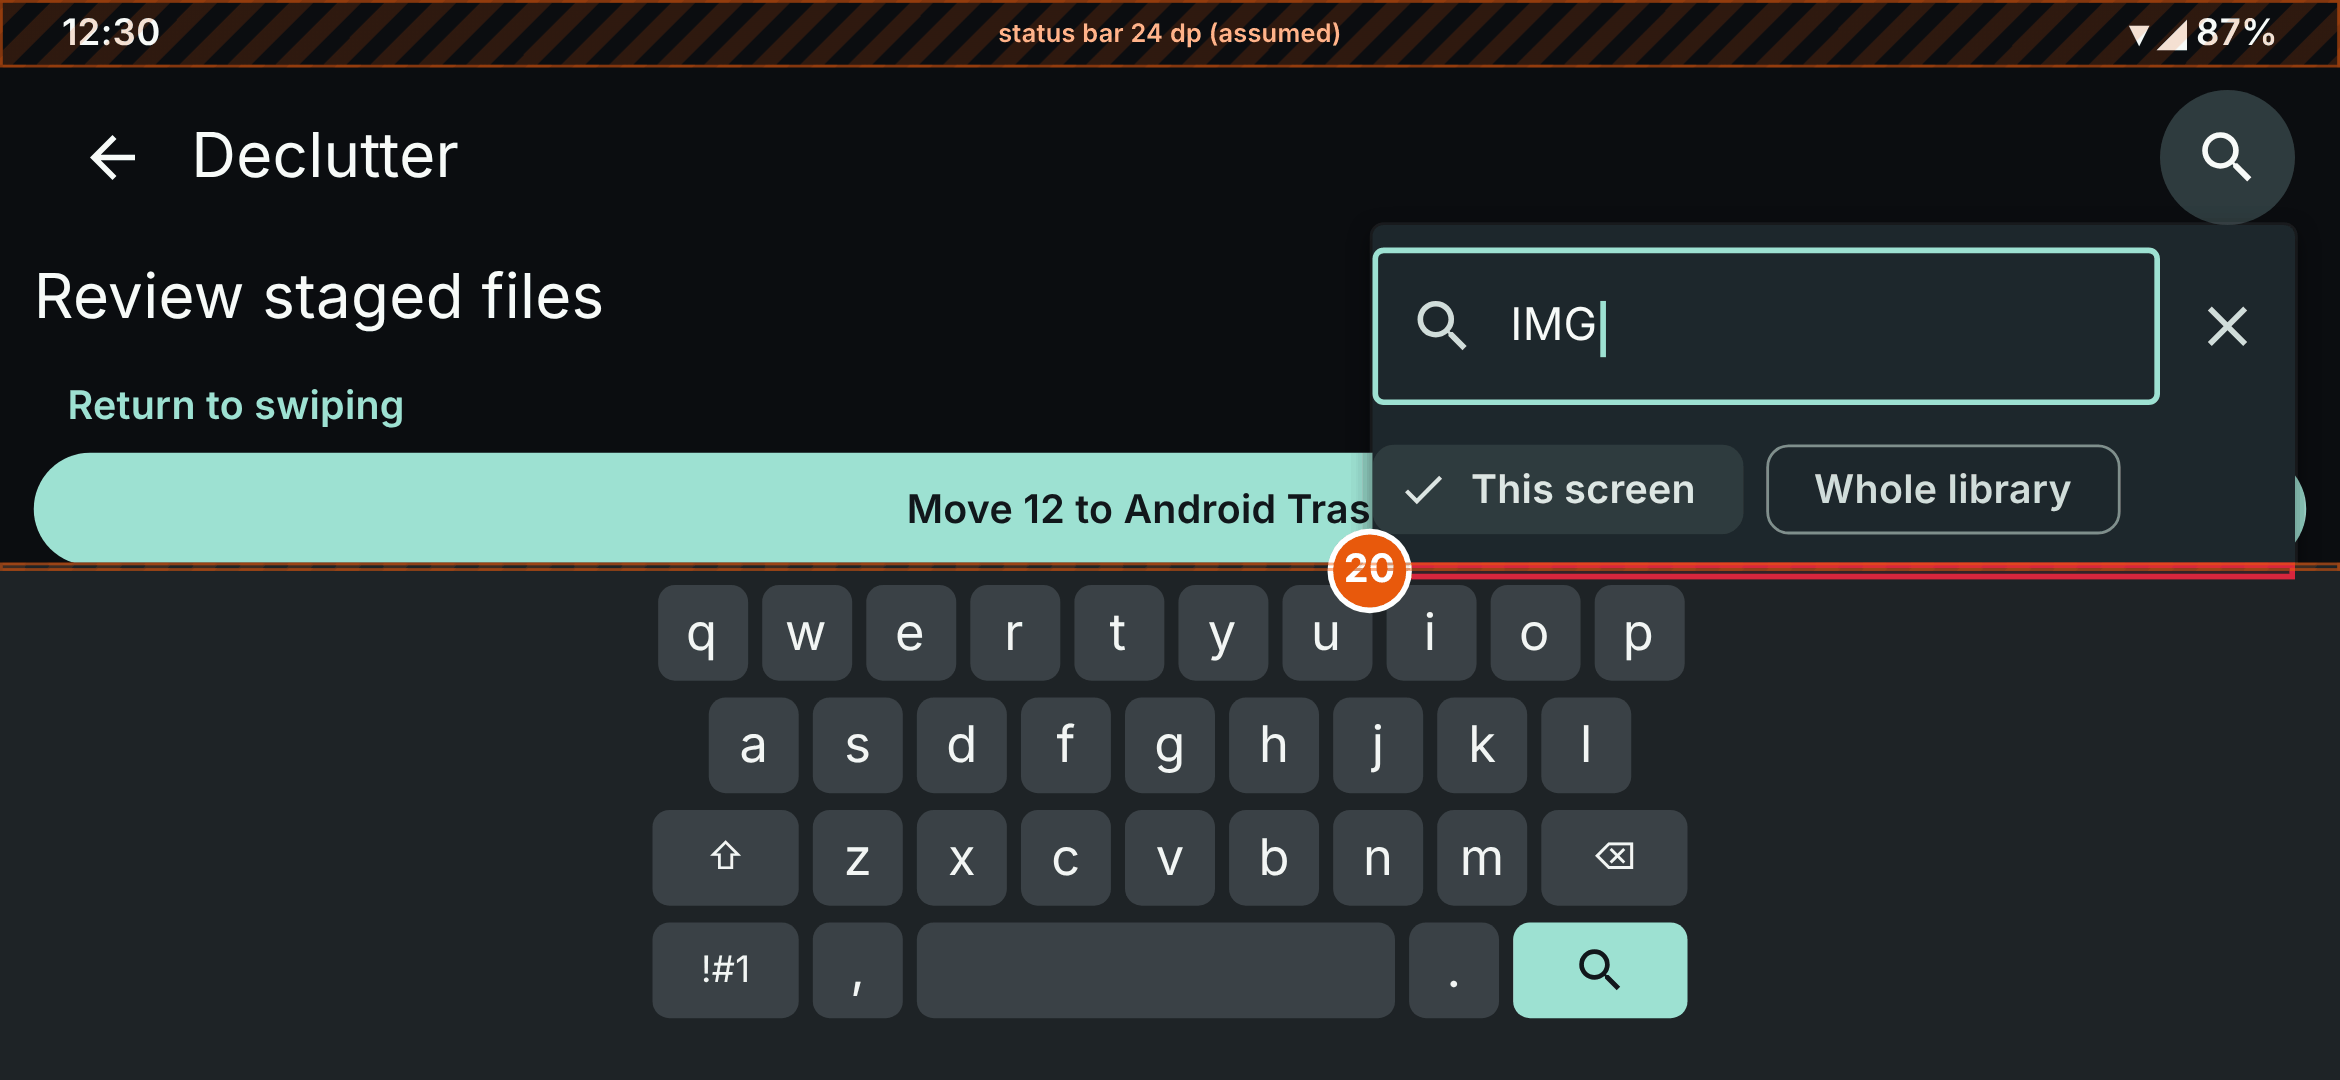
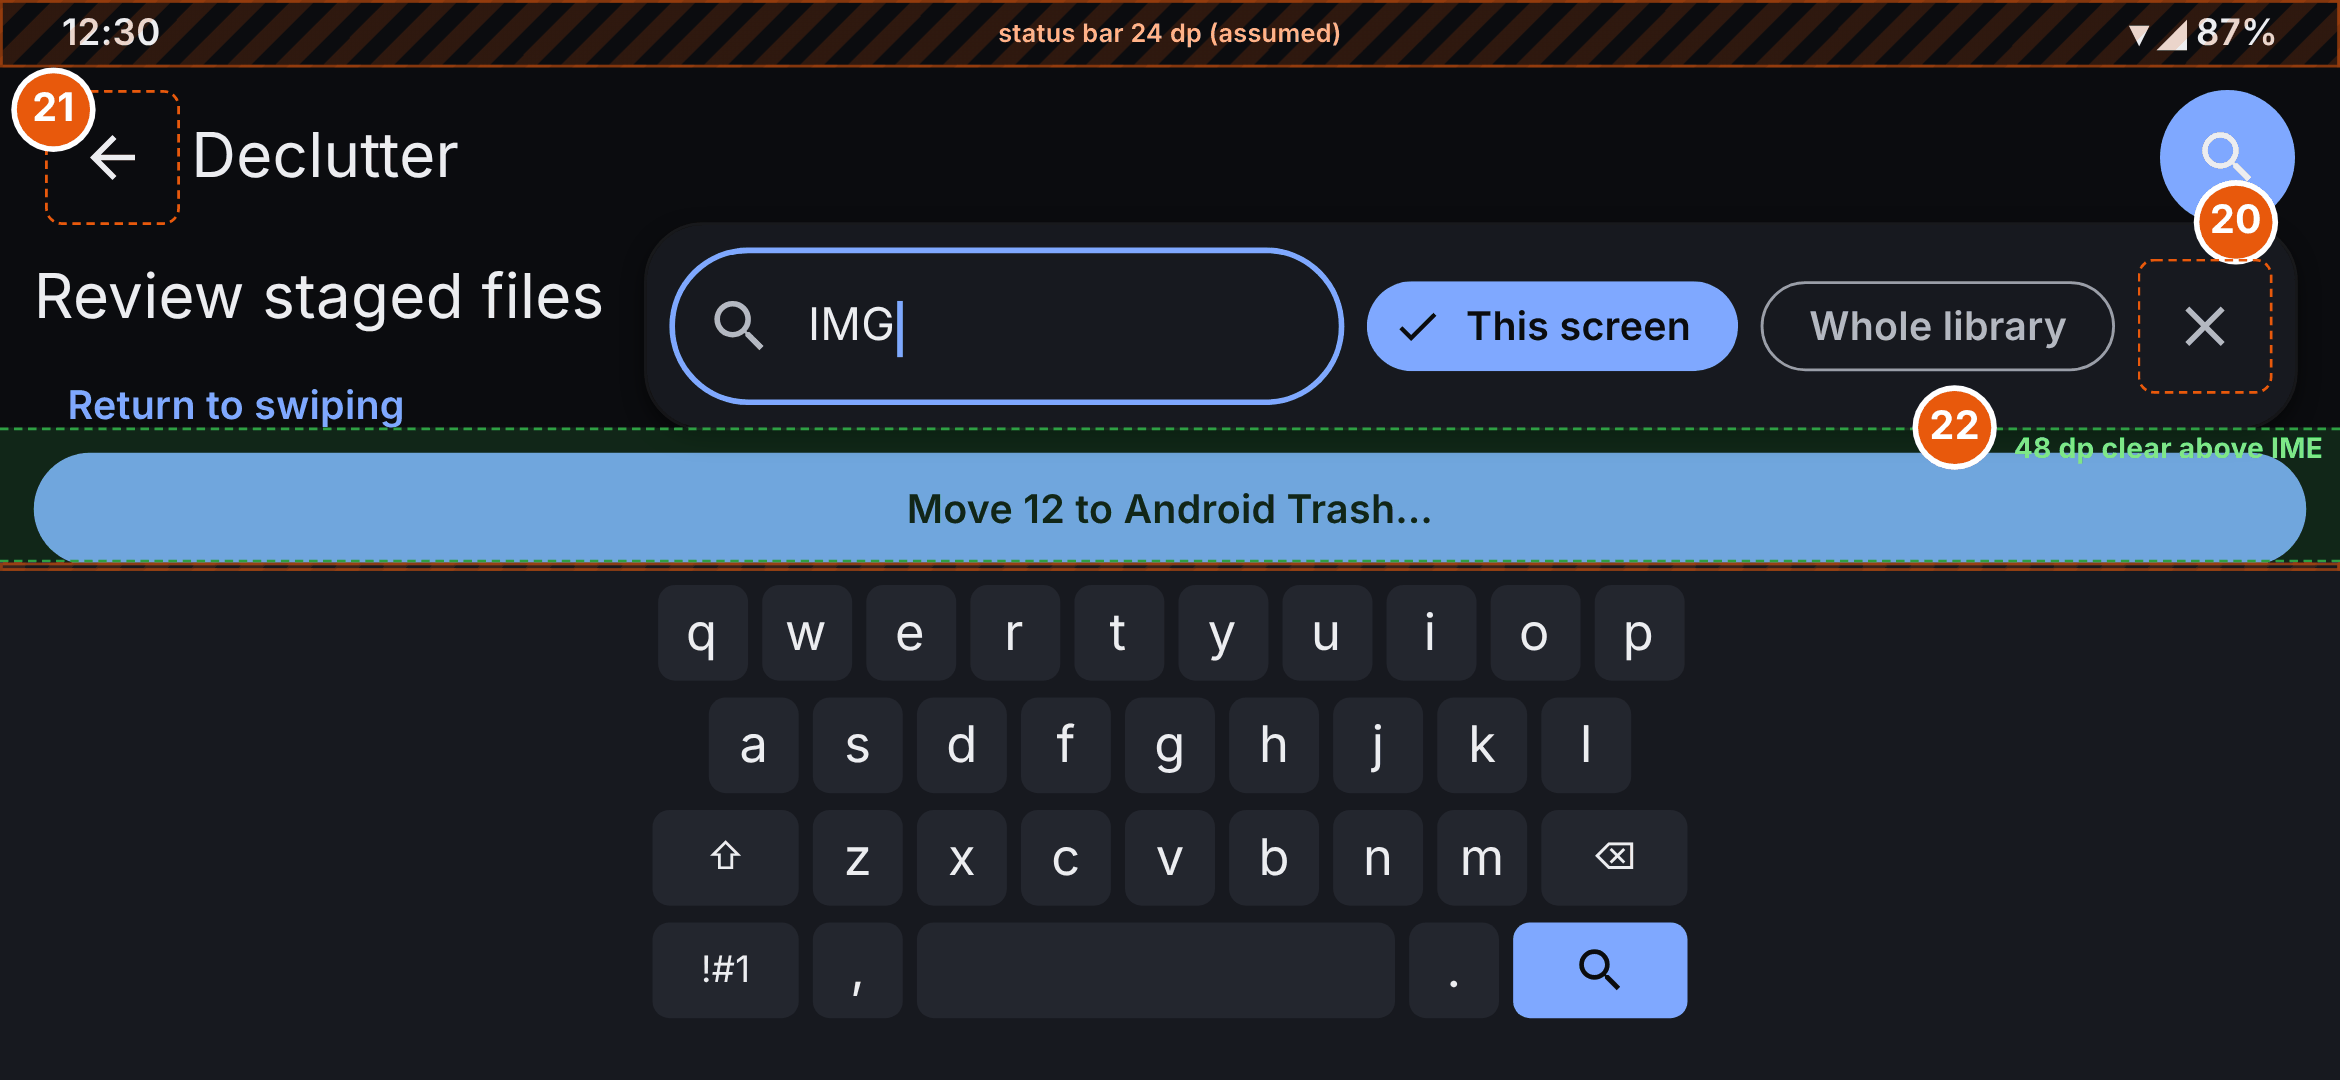
docs(design): #341 frame L inset-aware landscape search panel (Quiet Frame tokens)
Preflight 6988128847 found the scope chips under the landscape IME. Frame L
now shows a single-row panel (field, both chips, close) 48 dp clear of the
keyboard; README callout 20 records focus, Back and IME behaviour.

Refs #341

Claude-Session: https://claude.ai/code/session_01JsoPf5va4hru71Kjn9EeSL

diff --git a/docs/design/declutter-search-341/render/frames.html b/docs/design/declutter-search-341/render/frames.html
@@ -86,6 +86,12 @@ body.dark .menu{box-shadow:0 3px 8px rgba(0,0,0,.6);outline:1px solid #ffffff10}
 .badge{width:26px;height:26px;border-radius:13px;background:#E8590C;color:#fff;font:700 14px/26px Inter,sans-serif;text-align:center;box-shadow:0 0 0 2px #fff}
 .tgt{border:1.5px dashed #E8590C;border-radius:6px}
 .inset{background:repeating-linear-gradient(135deg,rgba(232,89,12,.16) 0 6px,transparent 6px 12px);border:1px solid rgba(232,89,12,.55);color:#B3440A;font:600 9px/1 Inter,sans-serif;display:flex;align-items:center;justify-content:center}
+body.qf{--page:#F6F7F9;--bg:#F6F7F9;--on-bg:#111318;--surface:#FFFFFF;--on-surface:#111318;--low:#FFFFFF;--cont:#FFFFFF;--high:#FFFFFF;--variant:#4A4F59;--primary:#2F6BE0;--on-primary:#FFFFFF;--outline:#5F6470;--outline-var:#ECEEF2;--sec-cont:#2F6BE0;--on-sec-cont:#FFFFFF;--kbd:#ECEEF2;--key:#FFFFFF;--key-ink:#111318;--track:#ECEEF2;font-family:'Inter Tight',Inter,sans-serif}
+body.qf.dark{--page:#0B0C0F;--bg:#0B0C0F;--on-bg:#ECEDF0;--surface:#17191F;--on-surface:#ECEDF0;--low:#17191F;--cont:#17191F;--high:#23262E;--variant:#B4B8C1;--primary:#7FA8FF;--on-primary:#0B0C0F;--outline:#9A9EA8;--outline-var:#23262E;--sec-cont:#7FA8FF;--on-sec-cont:#0B0C0F;--kbd:#17191F;--key:#23262E;--key-ink:#ECEDF0;--track:#23262E}
+body.qf .chip{border-radius:999px}body.qf .item{border-radius:20px;padding:8px}body.qf .thumb{border-radius:4px}body.qf .menu{border-radius:20px}body.qf .field{border-radius:999px}
+.menu.inline .mc{flex-direction:row;align-items:center;gap:8px;padding:0 8px}.menu.inline .field{width:240px}
+.clear{background:rgba(46,160,67,.18);border-top:1.5px dashed #2EA043;border-bottom:1.5px dashed #2EA043;color:#1A7F37;font:700 10px/1 Inter,sans-serif;display:flex;align-items:flex-start;justify-content:flex-end;padding:2px 6px 0 0}
+body.dark .clear{color:#7EE787}
 body.land .kbd .k{height:34px}body.land .kbd{gap:6px}
 body.dark .inset{color:#FFB38A}
 .tag{position:absolute;z-index:101;left:8px;bottom:calc(var(--nb) + 6px);font:700 11px/1.3 Inter,sans-serif;background:#E8590C;color:#fff;border-radius:6px;padding:4px 7px;max-width:250px}
@@ -110,6 +116,7 @@ const FILES=[["IMG_20240612_093114.jpg","8.4 MB"],["VID_20240614_181502.mp4","21
 const P=new URLSearchParams(location.search);
 const F=P.get('f'), ANN=P.get('ann')!=='0', LAND=P.get('land')==='1';
 if(LAND)document.body.classList.add('land');
+if(P.get('qf')==='1')document.body.classList.add('qf');
 if(P.get('theme')==='dark') document.body.classList.add('dark');
 const W=LAND?832:384, H=LAND?384:832, ST=LAND?24:29, NB=LAND?0:16, IME=LAND?184:324;
 document.body.style.setProperty('--st',ST+'px');document.body.style.setProperty('--nb',NB+'px');
@@ -125,6 +132,7 @@ function swipe(staged){return `${header()}<div class="meta">IMG_20240612_093114.
 function review(list,q,o={}){const n=o.count??list.length;return `${header({active:o.active})}${o.verifying?'<div class="prog"><i></i></div>':''}<h2>Review staged files</h2><div class="list">${o.listHtml??rows(list,q,o.verifying)}</div><div class="tbtn" style="align-self:flex-start">Return to swiping</div><div class="btn filled ${o.disabled?'dis':''}" style="flex:none">Move ${n} to Android Trash…</div>${o.after??''}`}
 function menu(o){const top=ST+4+4+48, w=328, left=12+(W-24)-4-w; const chips=`<div class="chips"><div class="chip ${o.lib?'':'on'}">${o.lib?'':I.check}This screen</div><div class="chip ${o.lib?'on':''}">${o.lib?I.check:''}Whole library</div></div>`;
   const field=`<div style="display:flex;align-items:center"><div class="field ${o.focus?'focus':''}">${I.search}${o.q?`<span class="val">${o.q}${o.focus?'<span class="caret"></span>':''}</span>`:(o.focus?'<span class="caret" style="margin-left:-6px"></span><span style="margin-left:-6px">Search</span>':'Search')}</div><div class="ib" style="color:var(--variant)">${I.close}</div></div>`;
+  if(o.inline){const fld=field.replace('<div style="display:flex;align-items:center">','').replace(/<div class="ib" style="color:var\(--variant\)">.*<\/div><\/div>$/,'');const cls=`<div class="ib" style="color:var(--variant)">${I.close}</div>`;return {top,right:16,html:`<div class="menu inline" style="top:${top}px;right:16px"><div class="mc">${fld}${chips.replace('class="chips"','class="chips" style="height:48px"')}${cls}</div></div>`}}
   return {top,left,w,html:`<div class="menu" style="top:${top}px;left:${left}px;width:${w}px"><div class="mc">${field}${chips}${o.extra??''}</div></div>`}}
 function kbd(){const r=s=>`<div class="kr">${[...s].map(c=>`<div class="k">${c}</div>`).join('')}</div>`;return `<div class="kbd" style="height:${IME+NB}px">${LAND?'':'<div class="sug"><span>img</span><span>image</span><span>vid</span></div>'}${r('qwertyuiop')}${r('asdfghjkl')}<div class="kr"><div class="k w">⇧</div>${[...'zxcvbnm'].map(c=>`<div class="k">${c}</div>`).join('')}<div class="k w">⌫</div></div><div class="kr"><div class="k w">!#1</div><div class="k">,</div><div class="k sp"></div><div class="k">.</div><div class="k go">${I.search.replace('<svg','<svg style="width:20px;height:20px;fill:currentColor"')}</div></div></div>`}
 function colStyle(imeOpen){const b=imeOpen?IME+NB:NB;return `top:${ST+4}px;bottom:${b+4}px`}
@@ -145,12 +153,12 @@ case 'S2-no-match': { const q='beach'; body=review([], q, {active:true,count:12,
 case 'S3-verifying': { body=review(FILES.slice(0,7),'',{verifying:true,disabled:true}); badge(17,W-40,ST+4+56+8-6); tagText='S3 · Verifying before Android Trash: search cannot enable actions'; insets(false); break;}
 case 'S4-error': { body=review(FILES.slice(0,7),''); extra=`<div class="toast" style="bottom:${NB+120}px">Couldn't verify selected files. Nothing was trashed.</div>`; badge(18,22,H-NB-170); tagText='S4 · Existing host error (Toast from MainActivity); retry = press Move again'; insets(false); break;}
 case 'S5-long': { const many=[]; for(let i=0;i<14;i++) many.push([FILES[i%12][0].replace('.', `_${String(i).padStart(3,'0')}.`),FILES[i%12][1]]); body=review(many,'',{count:214,disabled:true,after:`<div class="meta" style="flex:none">Review at most 200 files per Trash request. Unstage others or split into another session.</div>`}); badge(19,W-40,H-NB-120); tagText='S5 · 214 staged: lazy list, max-200 guard unchanged by filter'; insets(false); break;}
-case 'L-landscape-keyboard': { const q='IMG'; body=review(qMatch(q),q,{active:true,count:12}); const m=menu({q,focus:true}); extra=m.html+kbd(); anns.push({risk:[m.left,H-IME,m.w,m.top+126-(H-IME)]}); badge(20,m.left-14,H-IME-10); tagText='L · Landscape + IME: chip row may sit under keyboard (risk, verify)'; insets(true); break;}
+case 'L-landscape-keyboard': { const q='IMG'; body=review(qMatch(q),q,{active:true,count:12}); const m=menu({q,focus:true,inline:true}); extra=m.html+kbd(); const pb=m.top+8+56+8; anns.push({clear:[0,pb,W,H-IME-pb,`${H-IME-pb} dp clear above IME`]}); tgt(16,ST+8,48,48); badge(20,W-16-8-26,m.top-14); badge(21,6,ST+2); tgt(W-16-8-48,m.top+8+4,48,48); badge(22,W-150,pb-13); tagText='L'; insets(true); break;}
 default: body='unknown frame '+F;
 }
 const imeOpen=F==='C-keyboard'||F==='L-landscape-keyboard';
 R.innerHTML=status()+`<div class="col" style="${colStyle(imeOpen)}">${body}</div>`+extra+(imeOpen?'':nav());
-if(ANN){let a='';for(const x of anns){if(x.n)a+=`<div class="ann badge" style="left:${x.x}px;top:${x.y}px">${x.n}</div>`;else if(x.t)a+=`<div class="ann tgt" style="left:${x.t[0]}px;top:${x.t[1]}px;width:${x.t[2]}px;height:${x.t[3]}px"></div>`;else if(x.inset)a+=`<div class="ann inset" style="${x.right?'justify-content:flex-end;padding-right:6px;':''}left:${x.inset[0]}px;top:${x.inset[1]}px;width:${x.inset[2]}px;height:${x.inset[3]}px">${x.inset[3]>8?x.inset[4]:''}</div>`;else if(x.risk)a+=`<div class="ann risk" style="left:${x.risk[0]}px;top:${x.risk[1]}px;width:${x.risk[2]}px;height:${Math.max(4,x.risk[3])}px"></div>`}
+if(ANN){let a='';for(const x of anns){if(x.n)a+=`<div class="ann badge" style="left:${x.x}px;top:${x.y}px">${x.n}</div>`;else if(x.t)a+=`<div class="ann tgt" style="left:${x.t[0]}px;top:${x.t[1]}px;width:${x.t[2]}px;height:${x.t[3]}px"></div>`;else if(x.inset)a+=`<div class="ann inset" style="${x.right?'justify-content:flex-end;padding-right:6px;':''}left:${x.inset[0]}px;top:${x.inset[1]}px;width:${x.inset[2]}px;height:${x.inset[3]}px">${x.inset[3]>8?x.inset[4]:''}</div>`;else if(x.clear)a+=`<div class="ann clear" style="left:${x.clear[0]}px;top:${x.clear[1]}px;width:${x.clear[2]}px;height:${x.clear[3]}px">${x.clear[4]}</div>`;else if(x.risk)a+=`<div class="ann risk" style="left:${x.risk[0]}px;top:${x.risk[1]}px;width:${x.risk[2]}px;height:${Math.max(4,x.risk[3])}px"></div>`}
   R.insertAdjacentHTML('beforeend',a)}
 document.title='ready';
 </script></body></html>

diff --git a/docs/design/declutter-search-341/README.md b/docs/design/declutter-search-341/README.md
@@ -4,7 +4,7 @@
 
 - Contact sheets: [light](contact-sheet-light.png) · [dark](contact-sheet-dark.png)
 - Frames: [`frames/`](frames/). There are 13 frames, each in light and dark. Every frame is exactly 1080 × 2340 px (landscape is 2340 × 1080).
-- Generator: [`render/frames.html`](render/frames.html) and [`render/render.mjs`](render/render.mjs). Run `node docs/design/declutter-search-341/render/render.mjs [outDir] [--clean]`. `--clean` drops the orange annotations. The committed PNGs are then reduced to 256 colours with Pillow to keep the repository small.
+- Generator: [`render/frames.html`](render/frames.html) and [`render/render.mjs`](render/render.mjs). Run `node docs/design/declutter-search-341/render/render.mjs [outDir] [--clean] [--only=<frame>]`. `--clean` drops the orange annotations; `--only` re-renders one frame. The committed PNGs are then reduced to 256 colours with Pillow to keep the repository small.
 
 ## How the frames were made, and what is assumed
 
@@ -20,7 +20,9 @@
 | Font | Inter standing in for Roboto | Render container only |
 | Popup position | Right edge of the panel aligned to the search icon, top edge at the icon's bottom | M3 `DropdownMenu` default. Exact device bounds are **unverified** |
 
-Orange hatching marks insets. Dashed orange boxes mark 48 dp touch targets. Numbered badges point to the legend below. The red band (frame L) marks a risk.
+Orange hatching marks insets. Dashed orange boxes mark 48 dp touch targets. Numbered badges point to the legend below. The green band (frame L) marks the clearance between the panel and the keyboard.
+
+**Colours.** Frame L was revised on 2026-11-18 after Quiet Frame ([`QUIET_FRAME.md`](../QUIET_FRAME.md)) was approved, so it uses the Quiet Frame tokens: ground, surface, ink and accent colours, fully rounded chips and field, and a 20 dp panel radius. The other frames still use the earlier palette. The frames decide layout and behaviour; the implementation takes its colours from Quiet Frame.
 
 ## Frames and legend
 
@@ -38,7 +40,7 @@ Orange hatching marks insets. Dashed orange boxes mark 48 dp touch targets. Numb
 | **S3-verifying** | **17** The existing `atlas-declutter-verifying` progress bar shows. The `Keep` buttons and the Trash button are disabled, as on `main`. Search cannot enable any of them. |
 | **S4-error** | **18** This is the existing host error: a Toast from `MainActivity`, "Couldn't verify selected files. Nothing was trashed." Retrying means pressing Move again. Search adds no error state of its own, because it is a local in-memory filter with no IO. The Toast is drawn here; Android draws the real one. |
 | **S5-long** | **19** 214 staged files. The list is a `LazyColumn` with 160 px thumbnails and no eager decode. The existing max-200 guard disables Move and shows its message. A filter does not get around the guard, because it counts all staged files, not just the matches. |
-| **L-landscape-keyboard** | **20** **Risk found.** In landscape with the keyboard up, the bottom of the panel (about 211 dp) sits below the top of the keyboard (about 200 dp), so the chip row can be partly covered. The `safeDrawing` column also leaves no staged rows visible. Proposed handling: the Search key and Back hide the keyboard first, which brings the chips and rows back. Measure on a device before merge. If the chips are hidden even after the keyboard is dismissed, that blocks the merge. |
+| **L-landscape-keyboard** | *Revised 2026-11-18 after preflight [#6988128847](https://github.com/LPStruiksma/atlas-gallery/issues/341#issuecomment-6988128847) found the chip row under the keyboard.* **20** **Inset-aware single-row panel.** When the window has less than about 280 dp of height above the IME (landscape with the keyboard up), `AtlasSearch` lays out the query field (240 dp), **This screen**, **Whole library** and **Close** in one row instead of two. The panel is 72 dp tall (8 + 56 + 8), so its bottom sits at about 152 dp, against a keyboard top at about 200 dp (184 dp landscape IME, assumed). Portrait keeps the two-row panel (frames B and C). Proposed implementation: the shared component measures `WindowInsets.ime` and the window height, switches to the row layout below that threshold, and relaxes its 360 dp width cap only in that layout. No new component and no change to the swipe deck. **21** **Back** (header, 48 dp) stays visible above the keyboard. **22** About 48 dp stays clear above the IME (green band). The Move button stays above the keyboard through `safeDrawing`, and its count stays at 12. **Search does not need the keyboard dismissed first:** the field keeps focus and the cursor while either chip is tapped. Tapping **Whole library** goes straight to the D1 dialog (or D2 when nothing is staged), and the keyboard closes as the panel closes. **Focus and Back:** system Back with the keyboard up hides the keyboard first, leaves the panel open and keeps the query. A second Back closes the panel and clears the query. A third Back leaves Declutter, as on `main`. While the panel is open, a tap on the header Back button first closes the panel (a `DropdownMenu` popup takes outside taps), as in portrait. Close (48 dp) clears the query and collapses the panel. TalkBack order: field, This screen (selected), Whole library, Close. **Still true:** in landscape with the keyboard up, the `safeDrawing` column leaves no staged rows visible. They come back when the keyboard hides. Measure the real Samsung Keyboard height and popup bounds on the S24+ before merge. |
 
 ## Accessibility and interaction notes (proposed; to verify on device)
 
